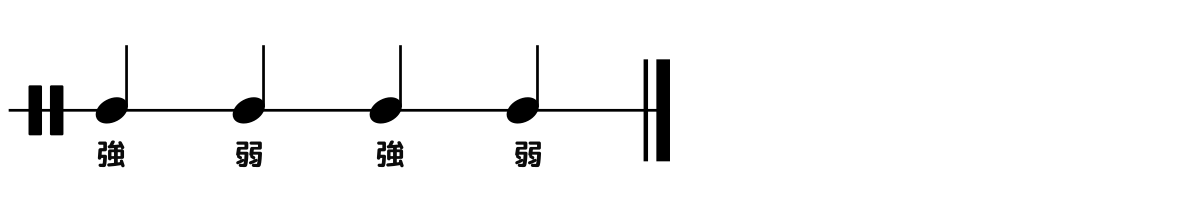
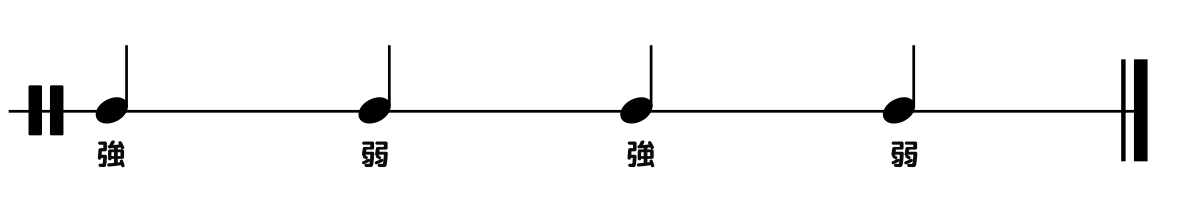
commit Wed, 16 Jul 2025 05:30:08 +0900

diff --git a/beat-orientation/index.md b/beat-orientation/index.md
@@ -669,17 +669,105 @@ tags:
 拍には強拍と弱拍の2種類があることを見ていきます。そして強拍は必ずしも先に現れるわけではなく、しばしば弱拍が先に演奏されることを見ていきます。次に弱拍・強拍は、4分音符だけではなく全ての音価の音符に存在することを見てみます。
 
 ### 強拍と弱拍とは
-海外の音楽の音符には **強拍** と **弱拍** という概念があります。音符が２つ以上あった時に小節上に現れる奇数番目の音符を**強拍**と、そして小節上に現れる偶数番目の音符を**弱拍**と呼びます。つまり小節上に先頭から順に強弱強弱という順序で現れます。
+海外の音楽の音符には **強拍** と **弱拍** という概念があります。音符が２つ以上あった時に小節上に現れる奇数番目の音符を**強拍**と、そして小節上に現れる偶数番目の音符を**弱拍**と呼びます。
+
+各音価にそれぞれ強拍と弱拍があります。
+
+例えば強拍弱拍を四分音符の上で見てみると次のようになります。
+
+![](attachments/beat-orientation-explained-4th-with-caption.png)
+
+強拍弱拍を八分音符の上で見てみると次のようになります。
+
+![](attachments/beat-orientation-explained-8th-with-caption.png)
+
+強拍弱拍を二分音符の上で見てみると次のようになります。
+
+![](attachments/beat-orientation-explained-half-with-caption.png)
 
 ### リズムの成立には最低二音必要
 
-音楽にリズムが成立する為には最低でも二音必要です。もしもそこに音が一つしか存在しなければ、それはリズムとして成立しません。次の例を聴いてみましょう。
+音楽にリズムが成立する為には最低でも二拍が必要です。もしもそこに拍が一つしか存在しなければ、それはリズムとして成立しません。次の例を聴いてみましょう。
 
 <div class="center-box"><blockquote class="twitter-tweet" data-media-max-width="560"><p lang="ja" dir="ltr">リズムには最低二音が必要。一音しかなければそれはリズムとして成立しない。二音あればそこに弱拍と強拍が成立する。それを聴く人はどちらが弱拍かでどちらが強拍かを判定する必要に迫られる。この限られた時間内での判断の必要性がリズムの緊張感の源に存在する。<a href="https://twitter.com/hashtag/%E3%82%AA%E3%83%95%E3%83%93%E3%83%BC%E3%83%88%E3%81%A7%E6%80%9D%E8%80%83%E3%81%99%E3%82%8B%E8%AA%9E%E5%AD%A6?src=hash&amp;ref_src=twsrc%5Etfw">#オフビートで思考する語学</a> <a href="https://t.co/1QiPtCFGzg">pic.twitter.com/1QiPtCFGzg</a></p>&mdash; 岡敦/Ats🇯🇵 (@ats4u) <a href="https://twitter.com/ats4u/status/1944485752970355051?ref_src=twsrc%5Etfw">July 13, 2025</a></blockquote></div>
 
-音がひとつしかなければ、そこにリズムは存在しません。そこに２つの音が存在して、初めてそこにリズムが成立します。そしてリズムが成立すると、そこには強拍と弱拍が表れます。 強拍と弱拍は、そこに２つの音があれば必ず成立する相対的な関係です。強拍と弱拍は、 **時間の分割**という音楽の最も基礎的な要素の本質だからです。
+ 強拍と弱拍は、そこに２つの音があって初めて成立する相対的な関係です。
 
-### 弱拍は強拍を分割する
+### 弱拍による強拍の分割と弱拍の多次元性
+
+優秀な演奏者は、2つ以上の音が重なって音が濁ることを防ぐために、譜面上では同時に演奏するように指示されていた場合でも、それぞれの音の位置を微妙にずらすことで音が重ならないように配慮して演奏します。音が重ならないようにするために最も大切なことは、弱拍と強拍をきちんと区別して認識することです。弱拍は元来、お互いが避け合うような位置にあるため、重なり合うことがありません。よって裏拍は位置をずらさなくても、重なって濁り合う心配がありません。しかし強拍は本質的に、重なり合う位置にあります。よって表拍を演奏する際には配慮が必要になります。
+
+### 弱拍と分割
+
+２分音符と２つの４分音符を例にとって考えてみます。
+
+![](attachments/Pasted%20image%2020250716041121.png)
+
+
+この図では、橙色の星印が打音（アタック）を表しています。赤色の線が持続音（サスティン）を表しています。２分音符と４分音符の違いの本質は音符の長さですが、このことを改めて考えてみると、**音の長さ**と**打点と打点の距離**という２つの要素がそこにあることがわかります。
+
+
+![](attachments/Pasted%20image%2020250716043812.png)
+
+ここで打点だけに注目して考えて見ると、四分音符の強拍の打点位置は、２分音符の打点位置と同じことがわかります。
+
+![](attachments/Pasted%20image%2020250716044134.png)
+
+打音（アタック音）だけを考えると、４分音符の表拍を演奏することと２分音符を演奏することは全く同じことと言えます。
+
+同じことが四分音符と８分音符にも言えます。
+
+![](attachments/Pasted%20image%2020250716044354.png)
+
+
+ここで打点だけに注目して考えて見ると、８分音符の強拍の打点位置は、四分音符の打点位置と同じことがわかります。
+
+![](attachments/Pasted%20image%2020250716044134.png)
+
+
+このことは、全ての音価の音符についていえます。
+
+- ２分音符の強拍は、全音符
+- ４分音符の強拍は、２分音符
+- ８分音符の強拍は、４分音符だ。
+- １６分音符の強拍は、８分音符だ。
+- ３２分音符の強拍は、１６分音符だ。
+- ．．．（続く）
+
+つまり <span style="font-size:200%;">**全ての音価の音符の強拍は必ず、その音価の倍の長さの音符と衝突する**</span> ということがわかります。
+
+#### 弱拍の多次元性
+音符の位置は、小節を一定の比率で分割したものなので、分数で小節先頭からの距離として表せるでしょう。 楽典では小節先頭拍を１拍目として数える序数を使って説明されていますが、ここでは数学の数直線のように基数を使って先頭の拍を０拍目として並べてみましょう。すると面白いことがわかります。
+
+![](attachments/Pasted%20image%2020250716050932.png)
+
+
+この各音符列上で左から数えて偶数番目（０個目・２個目・４個目・・・）の音符が強拍になります。そして奇数番目（１個目・３個目・５個目・・・）が弱拍になります。 すると全ての強拍は約分できることがわかります。
+
+![](attachments/Pasted%20image%2020250716050956.png)
+
+更に全ての弱拍は、約分できない分数＝既約分数になっていることがわかります。
+
+![](attachments/Pasted%20image%2020250716045505.png)
+
+分数は１つの数を表すに当たって複数通りの書き方がありますが、2/8 や 2/4などの分数は約分できます。つまり他の小さな数の組み合わせで表現することができます。
+  
+**つまり強拍とは約分できる分数で表される地点にある拍のことです。ある音価（ある分母）の強拍は、必ずその分母の最大公約数で約分された数字を分母として持つ音価の音符の弱拍が存在します。そしてその音価が音楽中で最小の音価でない限り、必ず他の音価（分母）を持った拍＝強拍が存在します。 つまりある音楽の中で、ある音価で強拍に置かれた音は、他の音価で強拍に置かれた音と衝突する可能性が高いといえます。**
+
+また小節の先頭の音は、必ず衝突するということがわかります。
+
+![](attachments/Pasted%20image%2020250716050850.png)
+
+全ての音価で弱拍しか演奏しないと何が起こるかを視覚化したものが次の図です。
+
+![](attachments/Pasted%20image%2020250716050811.png)
+
+<div style="padding:10px;margin:0px;text-align: center; width:100%; font-weight:1000;">↓↓↓</div>
+
+![](attachments/Pasted%20image%2020250716050821.png)
+
+#### 弱拍基軸演奏の応用例
+このことからテクニックとして各楽器が裏拍しか演奏しないという制約を持って演奏する方法があります。例えばバンドアンサンブル中で、ベースギターが４分音符弱拍を演奏し、ギターが８分音符弱拍を演奏し、ドラムスのハイハットが１６分音符弱拍を演奏し、キーボードが全音符弱拍を演奏する ─── というように、各音価の分割数を異なる楽器で演奏します。すると強拍がひとつもないので各楽器が必ず重ならずに音が演奏され、音が際立った様に聴き取りやすくなります。このテクニックを使うとバンド全体の音量が上がった様にすら感じます。しかし実際には全体の音量は下がっており、耳の痛さが減るという効果があります。
 
 
 ![](attachments/splitting-notes.png)
@@ -689,6 +777,9 @@ tags:
 ### 強拍は同時で弱拍は交互
 
 つまり
+
+### 全ての音価に弱拍と強拍がある
+
 
 ### 強拍弱拍の順序とは
 
